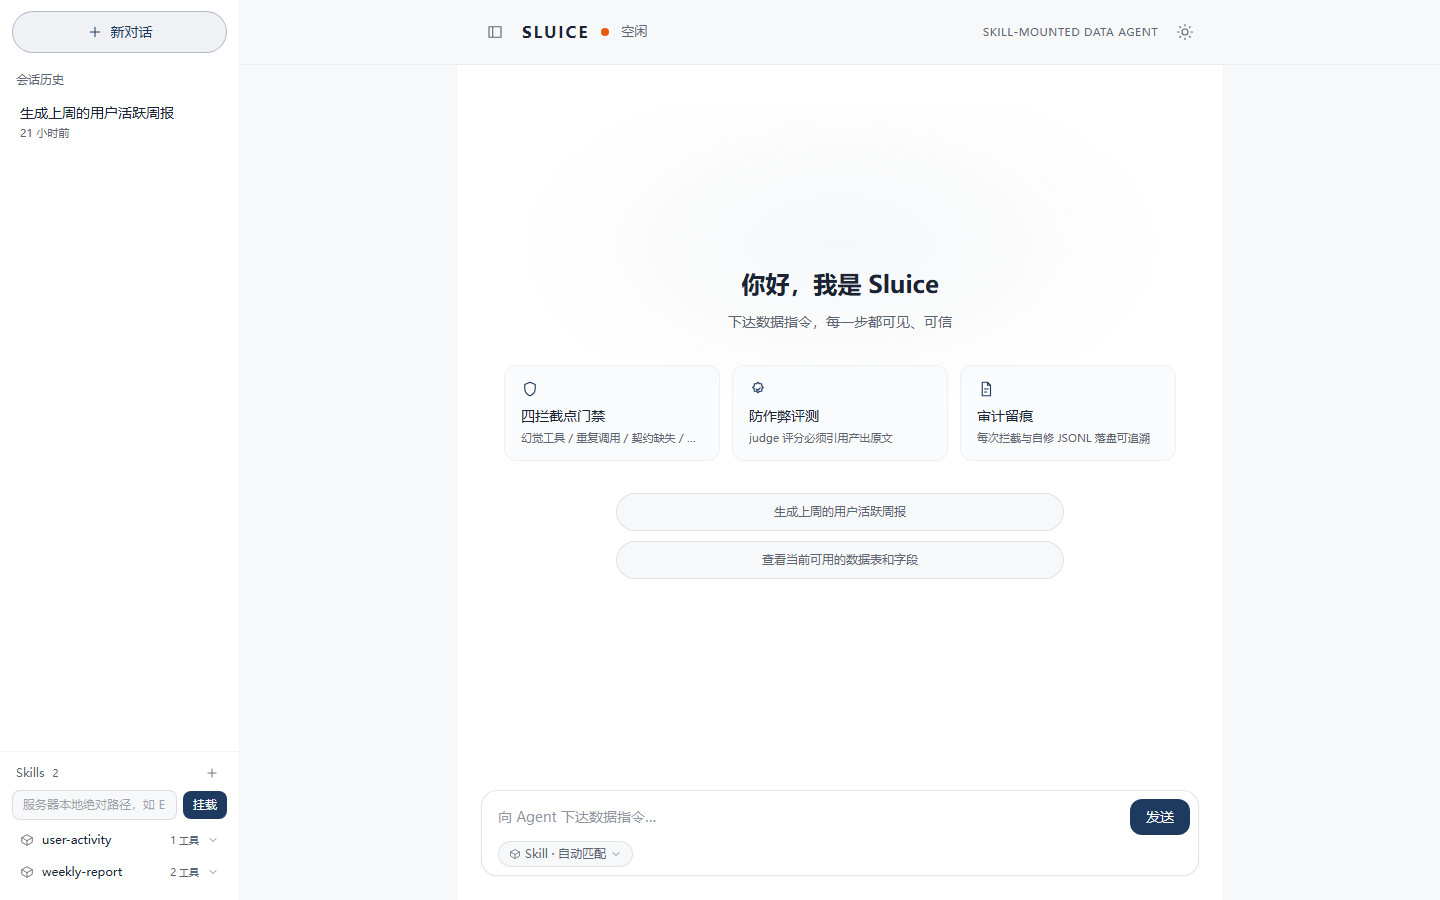
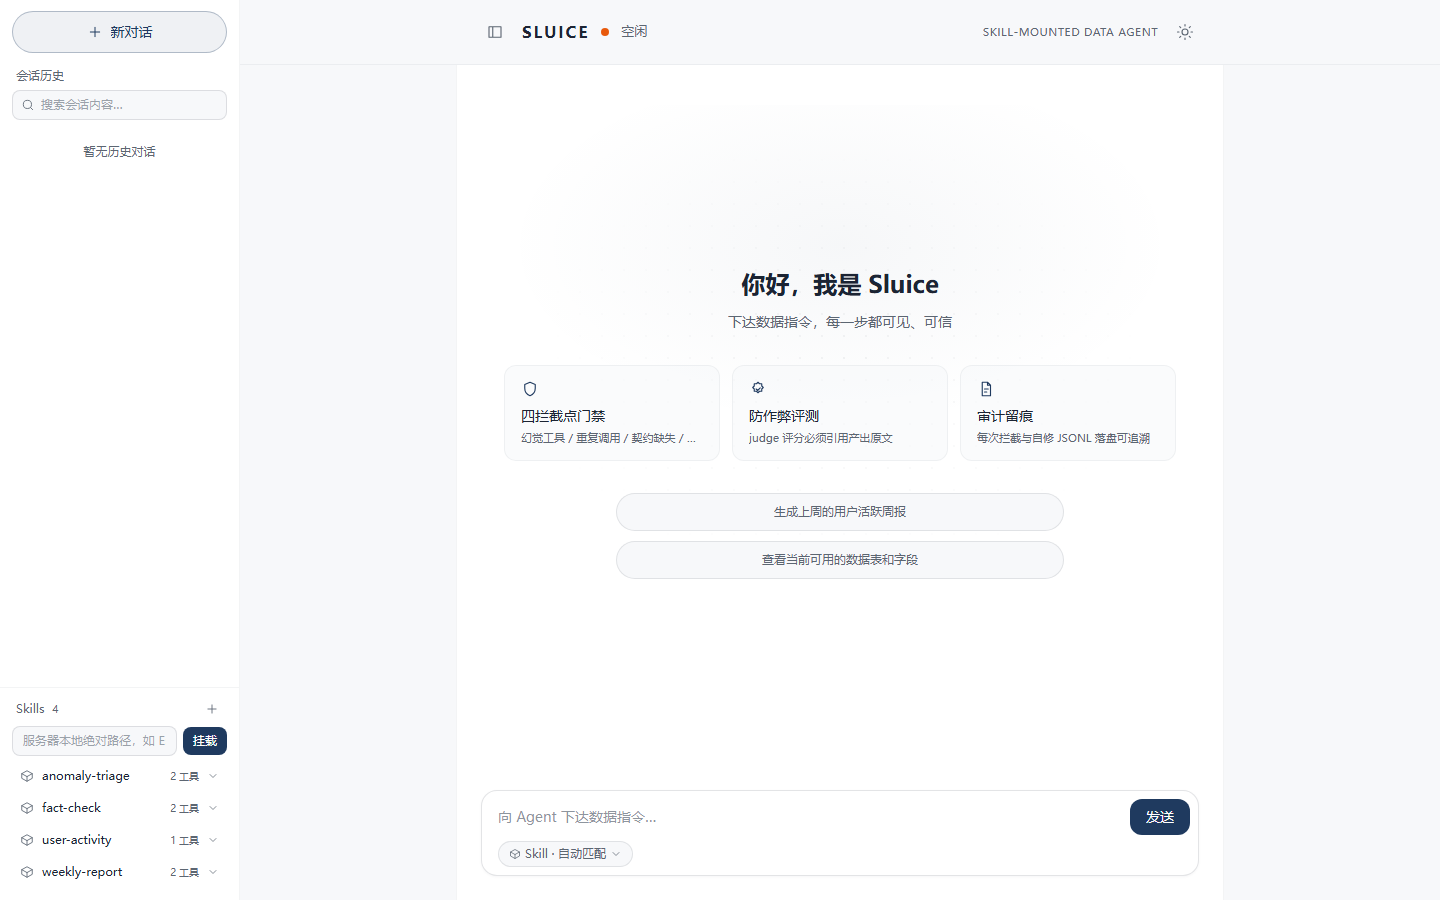
feat: 会话搜索框(标题+正文?q=后端检索+命中摘要)与空态氛围(点阵肌理+入场节奏),README首屏截图同步

Changed region(s): [[0.0, 0.7778, 0.1562, 0.9333], [0.0, 0.0622, 0.125, 0.1867]]

diff --git a/web/frontend/src/App.jsx b/web/frontend/src/App.jsx
@@ -72,6 +72,13 @@ const ICONS = {
     </>
   ),
   file: <path d="M7 3h7l4 4v14H7zM14 3v4h4M10 12h5M10 16h3" />,
+  search: (
+    <>
+      <circle cx="11" cy="11" r="7" />
+      <path d="m20 20-3.5-3.5" />
+    </>
+  ),
+  close: <path d="M6 6l12 12M18 6 6 18" />,
 };
 
 /* 空状态三特性卡：价值主张引导 */
@@ -292,7 +299,10 @@ export default function App() {
   const [confirmUnskill, setConfirmUnskill] = useState(null); // 二击确认卸载的 skill 名
   const [selSkill, setSelSkill] = useState(null); // 本次发送强制使用的 skill；null = 自动匹配
   const [skillMenuOpen, setSkillMenuOpen] = useState(false); // 命令栏 skill 选择菜单
+  const [searchQ, setSearchQ] = useState(""); // 侧栏会话搜索（后端 ?q= 过滤）
   const bottomRef = useRef(null);
+  const searchRef = useRef(""); // loadConvos 经 ref 读当前词，send 收尾延迟刷新不闭包过期
+  searchRef.current = searchQ;
 
   useEffect(() => {
     bottomRef.current?.scrollIntoView({ behavior: "smooth" });
@@ -308,9 +318,10 @@ export default function App() {
     } catch {}
   }, [theme]);
 
-  // 历史会话：首屏拉列表 + 恢复上次会话
+  // 历史会话：首屏拉列表 + 恢复上次会话（有搜索词时走 ?q= 过滤通道）
   function loadConvos() {
-    fetch("/api/conversations")
+    const q = searchRef.current.trim();
+    fetch(q ? `/api/conversations?q=${encodeURIComponent(q)}` : "/api/conversations")
       .then((r) => r.json())
       .then((d) => setConvos(d.conversations || []))
       .catch(() => {});
@@ -337,6 +348,18 @@ export default function App() {
     else if (last) openConversation(last);
     // eslint-disable-next-line react-hooks/exhaustive-deps -- 仅首挂载执行
   }, []);
+
+  // 搜索防抖：输入停顿 250ms 才发请求；清空立即回全量（首挂载由上方 effect 拉取，此处跳过）
+  const searchMountedRef = useRef(false);
+  useEffect(() => {
+    if (!searchMountedRef.current) {
+      searchMountedRef.current = true;
+      return;
+    }
+    const t = setTimeout(loadConvos, searchQ.trim() ? 250 : 0);
+    return () => clearTimeout(t);
+    // eslint-disable-next-line react-hooks/exhaustive-deps -- loadConvos 经 ref 读最新词
+  }, [searchQ]);
 
   function rememberActive(id) {
     setActiveId(id);
@@ -528,10 +551,33 @@ export default function App() {
               <span className="truncate">新对话</span>
             </button>
           </div>
-          <p className="px-4 pt-2 pb-1.5 text-xs text-ink2">会话历史</p>
+          <div className="px-3 pt-1 pb-2">
+            <p className="px-1 pb-1.5 text-xs text-ink2">会话历史</p>
+            <div className="flex items-center gap-1.5 rounded-lg border border-bar bg-paper px-2 py-1.5 transition-colors focus-within:border-brand">
+              <Icon path={ICONS.search} className="h-3.5 w-3.5 shrink-0 text-ink2" />
+              <input
+                value={searchQ}
+                onChange={(e) => setSearchQ(e.target.value)}
+                placeholder="搜索会话内容…"
+                className="min-w-0 flex-1 border-0 bg-transparent text-xs text-ink outline-none placeholder:text-ink2/60"
+              />
+              {searchQ && (
+                <button
+                  type="button"
+                  aria-label="清空搜索"
+                  onClick={() => setSearchQ("")}
+                  className="shrink-0 cursor-pointer text-ink2 transition-colors hover:text-ink"
+                >
+                  <Icon path={ICONS.close} className="h-3 w-3" />
+                </button>
+              )}
+            </div>
+          </div>
           <nav className="scroll-thin min-h-0 flex-1 overflow-y-auto px-2 pb-4">
             {convos.length === 0 ? (
-              <p className="px-2 pt-4 text-center text-xs text-ink2">暂无历史对话</p>
+              <p className="px-2 pt-4 text-center text-xs text-ink2">
+                {searchQ.trim() ? "无匹配会话" : "暂无历史对话"}
+              </p>
             ) : (
               convos.map((c) => (
                 <div
@@ -553,8 +599,11 @@ export default function App() {
                     >
                       {c.title}
                     </span>
-                    <span className="mt-0.5 block text-[11px] text-ink2">
-                      {relTime(c.updated_at)}
+                    <span
+                      className="mt-0.5 block truncate text-[11px] text-ink2"
+                      title={c.snippet || undefined}
+                    >
+                      {c.snippet || relTime(c.updated_at)}
                     </span>
                   </button>
                   <button
@@ -757,13 +806,24 @@ export default function App() {
                       "radial-gradient(480px 260px at 50% 22%, color-mix(in srgb, var(--brand) 4%, transparent), transparent 70%)",
                   }}
                 />
-                <h2 className="text-2xl font-semibold text-ink">你好，我是 Sluice</h2>
-                <p className="mt-3 text-[14px] text-ink2">下达数据指令，每一步都可见、可信</p>
+                {/* 工程纸点阵肌理：墨@5% 圆点铺底，径向淡出无硬边 */}
+                <div
+                  aria-hidden="true"
+                  className="dots-bg pointer-events-none absolute inset-0 -z-10"
+                />
+                <h2 className="anim-rise text-2xl font-semibold text-ink">你好，我是 Sluice</h2>
+                <p
+                  className="anim-rise mt-3 text-[14px] text-ink2"
+                  style={{ animationDelay: "60ms" }}
+                >
+                  下达数据指令，每一步都可见、可信
+                </p>
                 <div className="mt-8 grid w-full max-w-2xl gap-3 sm:grid-cols-3">
-                  {FEATURES.map((f) => (
+                  {FEATURES.map((f, i) => (
                     <div
                       key={f.title}
-                      className="rounded-xl border border-[color:var(--hairline)] bg-paper/60 px-4 py-3.5 text-left transition-all duration-150 hover:-translate-y-0.5 hover:bg-paper hover:shadow-panel"
+                      className="anim-rise rounded-xl border border-[color:var(--hairline)] bg-paper/60 px-4 py-3.5 text-left transition-all duration-150 hover:-translate-y-0.5 hover:bg-paper hover:shadow-panel"
+                      style={{ animationDelay: `${120 + i * 50}ms` }}
                     >
                       <Icon path={ICONS[f.icon]} className="h-[18px] w-[18px] text-brand" />
                       <p className="mt-2 text-sm font-medium text-ink">{f.title}</p>
@@ -771,7 +831,10 @@ export default function App() {
                     </div>
                   ))}
                 </div>
-                <div className="mt-8 flex w-full max-w-md flex-col gap-2.5">
+                <div
+                  className="anim-rise mt-8 flex w-full max-w-md flex-col gap-2.5"
+                  style={{ animationDelay: "280ms" }}
+                >
                   {EXAMPLE_COMMANDS.map((t) => (
                     <button
                       key={t}

diff --git a/web/frontend/src/index.css b/web/frontend/src/index.css
@@ -306,6 +306,18 @@
     var(--elev-soft);
 }
 
+/* ---------- 空态氛围：工程纸点阵肌理（径向淡出，边缘不留硬边） ---------- */
+
+.dots-bg {
+  background-image: radial-gradient(
+    color-mix(in srgb, var(--ink) 5%, transparent) 1px,
+    transparent 1.5px
+  );
+  background-size: 22px 22px;
+  -webkit-mask-image: radial-gradient(420px 300px at 50% 40%, #000, transparent 75%);
+  mask-image: radial-gradient(420px 300px at 50% 40%, #000, transparent 75%);
+}
+
 /* ---------- 动效 ---------- */
 
 @keyframes sluice-rise {

diff --git a/src/sluice/web/conversations.py b/src/sluice/web/conversations.py
@@ -17,10 +17,30 @@ from pathlib import Path
 
 _ID_RE = re.compile(r"[0-9a-f]{32}\Z")  # uuid4().hex——同时挡路径穿越
 _TITLE_LEN = 24
+_SNIPPET_WIN = 30  # 命中词前后各取的字符数（侧栏单行摘要）
 
 
 def _now() -> str:
     return datetime.now().isoformat()  # 微秒精度：同秒内多会话排序不并列
+
+
+def _match_span(text, query: str):
+    """换行折叠成单行后忽略大小写检索，命中返回（展平文本, (起, 止)），未命中 None。
+
+    在展平文本上检索保证摘要窗口切出来就是单行可直接展示的片段。
+    """
+    flat = " ".join(str(text).split())
+    m = re.search(re.escape(query), flat, re.IGNORECASE)
+    if m is None:
+        return None
+    return flat, m.span()
+
+
+def _excerpt(flat: str, span) -> str:
+    start, end = span
+    left = max(0, start - _SNIPPET_WIN)
+    right = min(len(flat), end + _SNIPPET_WIN)
+    return ("…" if left else "") + flat[left:right] + ("…" if right < len(flat) else "")
 
 
 class ConversationStore:
@@ -91,6 +111,47 @@ class ConversationStore:
                         "id": conv["id"],
                         "title": conv.get("title") or "(未命名对话)",
                         "updated_at": conv.get("updated_at") or "",
+                    }
+                )
+        items.sort(key=lambda c: c["updated_at"], reverse=True)
+        return items
+
+    def search(self, query: str) -> list[dict]:
+        """标题 + 消息正文（用户问/最终答）子串检索，命中项附单行摘要。
+
+        list() 的超集形状（多一个 snippet 字段），按 updated_at 倒序与 list 一致。
+        """
+        q = (query or "").strip()
+        if not q:
+            return []
+        with self._lock:
+            files = list(self._base.glob("*.json")) if self._base.is_dir() else []
+        items = []
+        for path in files:
+            conv = self._read(path)
+            if not (conv and conv.get("id")):
+                continue
+            title = conv.get("title") or "(未命名对话)"
+            snippet = None
+            hit = _match_span(title, q)
+            if hit is not None:
+                snippet = _excerpt(*hit)
+            else:
+                for msg in conv.get("messages") or []:
+                    for field in ("user", "answer"):
+                        hit = _match_span(msg.get(field) or "", q)
+                        if hit is not None:
+                            snippet = _excerpt(*hit)
+                            break
+                    if snippet is not None:
+                        break
+            if snippet is not None:
+                items.append(
+                    {
+                        "id": conv["id"],
+                        "title": title,
+                        "updated_at": conv.get("updated_at") or "",
+                        "snippet": snippet,
                     }
                 )
         items.sort(key=lambda c: c["updated_at"], reverse=True)

diff --git a/tests/test_web_conversations.py b/tests/test_web_conversations.py
@@ -208,6 +208,68 @@ def test_chat_error_event_still_persists_turn(tmp_path):
     assert client.get("/api/conversations").get_json()["conversations"][0]["title"] == "触发报错"
 
 
+# ---------------- 会话搜索（标题 + 消息正文，?q= 端点过滤） ----------------
+
+
+def test_store_search_matches_title_user_and_answer(tmp_path):
+    store = ConversationStore(tmp_path)
+    t = store.create()
+    store.append_turn(t, "生成上周销售周报", [], "## 周报\n深圳环比下滑")
+    u = store.create()
+    store.append_turn(u, "查一下用户活跃", [], "答")
+    a = store.create()
+    store.append_turn(a, "随便看看", [], "结论：DAU 上行")
+    store.create()  # 无消息空会话，永不命中
+
+    by_title = {c["id"]: c for c in store.search("销售周报")}
+    assert set(by_title) == {t}
+    assert "深圳环比下滑" not in by_title[t]["snippet"]
+
+    by_user = {c["id"]: c for c in store.search("活跃")}
+    assert set(by_user) == {u}
+
+    by_answer = {c["id"]: c for c in store.search("DAU 上行")}
+    assert set(by_answer) == {a}
+    assert "DAU 上行" in by_answer[a]["snippet"]
+
+
+def test_store_search_case_insensitive_with_snippet_excerpt(tmp_path):
+    store = ConversationStore(tmp_path)
+    conv_id = store.create()
+    store.append_turn(conv_id, "解释一下", [], "前缀铺垫" + "x" * 40 + "KEY 域名在中间" + "y" * 40)
+    hits = store.search("key 域")
+    assert [c["id"] for c in hits] == [conv_id]
+    snippet = hits[0]["snippet"]
+    assert "KEY 域名在中间" in snippet  # 忽略大小写命中原文
+    assert len(snippet) < 90  # 截取窗口而非全文倾倒
+    assert snippet.startswith("…") and snippet.endswith("…")
+
+
+def test_store_search_no_match_and_empty_query(tmp_path):
+    store = ConversationStore(tmp_path)
+    conv_id = store.create()
+    store.append_turn(conv_id, "问", [], "答")
+    assert store.search("不存在的词") == []
+    assert store.search("") == []
+    assert store.search("   ") == []  # 纯空白等价空查询
+
+
+def test_search_endpoint_filters_by_query(conv_app):
+    client = conv_app.test_client()
+    hit = client.post("/api/conversations").get_json()["id"]
+    _ = client.post("/api/conversations").get_json()["id"]
+    resp = client.post(
+        "/api/chat", json={"message": "独特检索标记", "conversation_id": hit}
+    )
+    assert resp.status_code == 200
+    _finish(client, resp.get_json()["run_id"])
+    filtered = client.get("/api/conversations?q=独特检索标记").get_json()["conversations"]
+    assert [c["id"] for c in filtered] == [hit]
+    assert "独特检索标记" in filtered[0]["snippet"]
+    # 无 q 参数回落全量列表
+    assert len(client.get("/api/conversations").get_json()["conversations"]) == 2
+
+
 # ---------------- session_init 开场事件（可观测性） ----------------
 
 

diff --git a/src/sluice/web/app.py b/src/sluice/web/app.py
@@ -274,6 +274,9 @@ def create_app(
 
     @app.get("/api/conversations")
     def list_conversations():
+        q = request.args.get("q", "").strip()
+        if q:
+            return jsonify({"conversations": conversations.search(q)})
         return jsonify({"conversations": conversations.list()})
 
     @app.post("/api/conversations")
